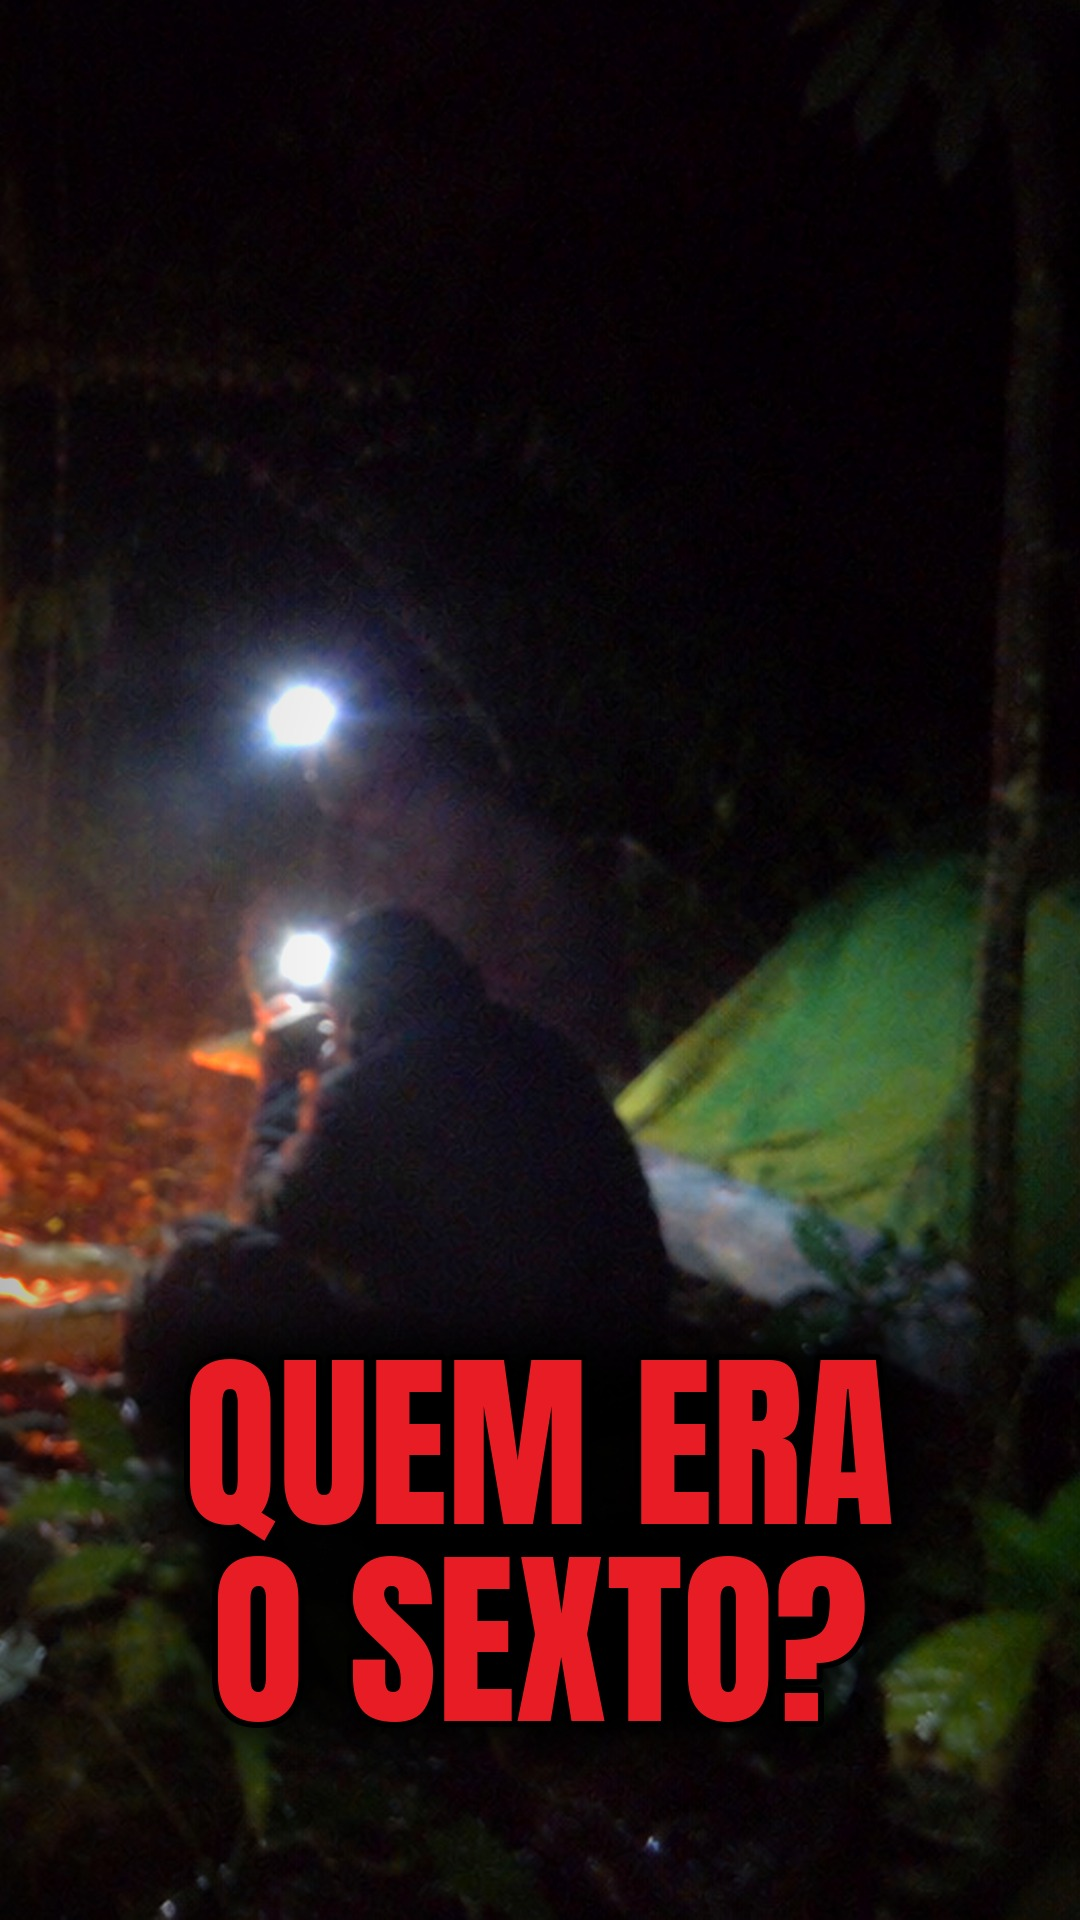
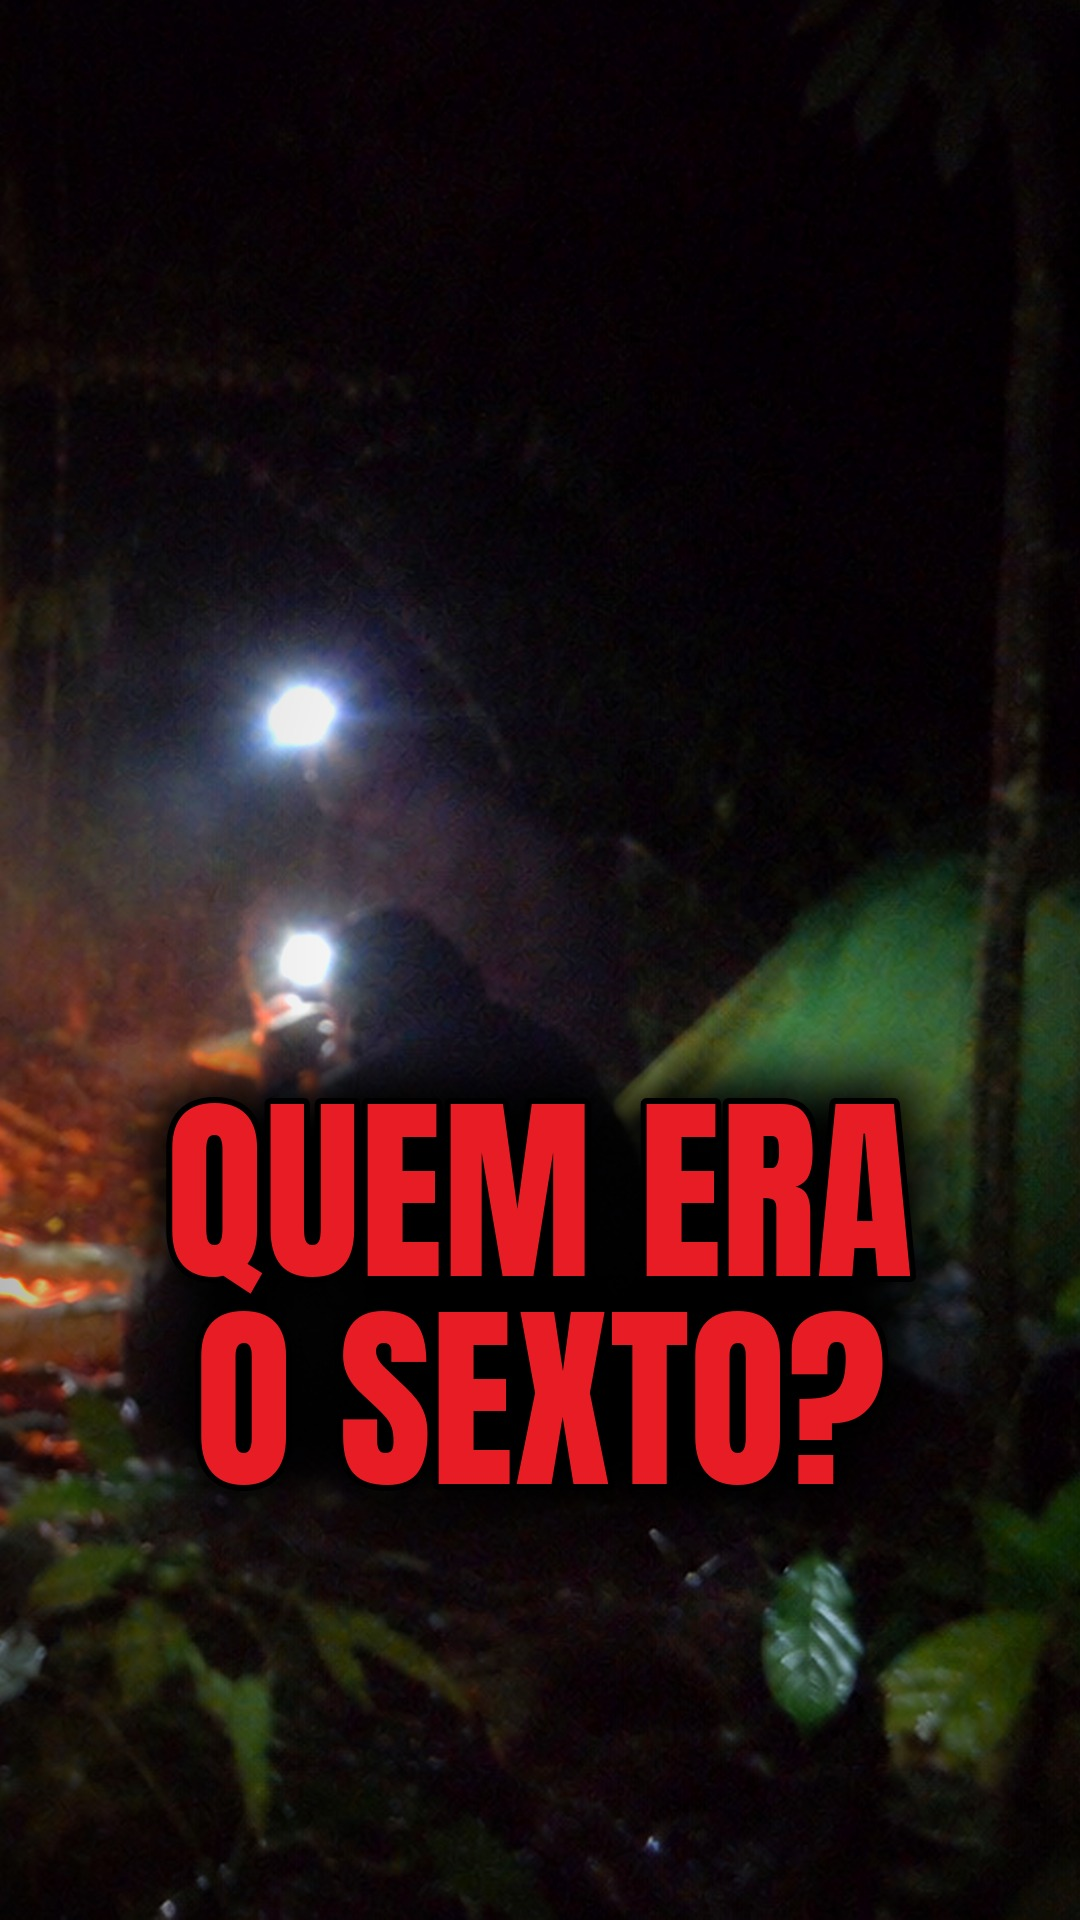
Ep. 06: capas dos Shorts na zona segura, Short 3 'CONTA DE NOVO.', configurações no SHORTS.md
Claude-Session: https://claude.ai/code/session_01Mik5s9WJkfvsyjJAMyZLER

Changed region(s): [[0.0917, 0.5312, 0.8861, 0.9375]]

diff --git a/video/episodios/ep06-a-porta-na-mata/publicacao/fazer_capas_shorts.py b/video/episodios/ep06-a-porta-na-mata/publicacao/fazer_capas_shorts.py
@@ -39,7 +39,8 @@ def texto(im, linhas, y, tam, cor=(232, 28, 36)):
     return im.convert("RGB")
 
 
-texto(base("P09_B.jpg", (0.71, 0.42), 1.0), ["QUEM ERA", "O SEXTO?"], 1300, 190).save(AQUI / "capa_short1_eram_seis.jpg", quality=92)
-texto(base("P01_B.jpg", (0.5, 0.45), 1.05), ["ALGUÉM", "BATEU."], 1320, 210).save(AQUI / "capa_short2_alguem_bateu.jpg", quality=92)
-texto(base("P14_A.jpg", (0.5, 0.5), 1.15), ["CINCO", "NA TELA."], 260, 210).save(AQUI / "capa_short3_aponta_a_camera.jpg", quality=92)
+# 12/11: o texto COMPLETA o título (não repete) e fica na zona segura (y < ~1450): embaixo o app cobre.
+texto(base("P09_B.jpg", (0.71, 0.42), 1.0), ["QUEM ERA", "O SEXTO?"], 1040, 200).save(AQUI / "capa_short1_eram_seis.jpg", quality=92)
+texto(base("P01_B.jpg", (0.5, 0.45), 1.05), ["ALGUÉM", "BATEU."], 1060, 220).save(AQUI / "capa_short2_alguem_bateu.jpg", quality=92)
+texto(base("P14_A.jpg", (0.5, 0.5), 1.15), ["CONTA", "DE NOVO."], 260, 220).save(AQUI / "capa_short3_aponta_a_camera.jpg", quality=92)
 print("ok")

diff --git a/video/episodios/ep06-a-porta-na-mata/publicacao/SHORTS.md b/video/episodios/ep06-a-porta-na-mata/publicacao/SHORTS.md
@@ -11,7 +11,7 @@ Poste **um por dia**, entre 12h–14h ou 19h–21h, a partir do dia seguinte ao 
 ## Arquivos
 | Short | Vídeo | Legenda | Capa |
 |---|---|---|---|
-| 1 — Eram seis | `shorts_final/s1_eram_seis.mp4` (36 s) | `shorts_final/s1_eram_seis.srt` | `capa_short1_eram_seis.jpg` |
+| 1 — Eram seis | `shorts_final/s1_eram_seis.mp4` (36 s, refeito em 12/11: risada nova) | `shorts_final/s1_eram_seis.srt` | `capa_short1_eram_seis.jpg` |
 | 2 — Alguém bateu | `shorts_final/s2_alguem_bateu.mp4` (36 s, refeito em 12/11: abre com as batidas reais) | `shorts_final/s2_alguem_bateu.srt` | `capa_short2_alguem_bateu.jpg` |
 | 3 — Aponta a câmera | `shorts_final/s3_aponta_a_camera.mp4` (35 s) | `shorts_final/s3_aponta_a_camera.srt` | `capa_short3_aponta_a_camera.jpg` |
 
@@ -82,3 +82,12 @@ E alguém bateu. Três vezes. Na madeira.
 ```
 Você abriria? Eles estavam procurando um homem perdido… 👇
 ```
+
+---
+
+## Configurações (os 3)
+- Público: não é conteúdo para crianças · Conteúdo alterado ou sintético: **Sim**.
+- Playlist: **O Vigia — Casos** · Categoria: Entretenimento.
+- Tags (opcional): `terror, creepypasta, história de terror, porta na mata, bombeiros, mata atlântica, o vigia, último abrigo`
+- Capas refeitas em 12/11: texto na zona segura (o app cobre a parte de baixo) e o do Short 3 virou "CONTA DE NOVO."
+  (o antigo "CINCO NA TELA." repetia o título).
